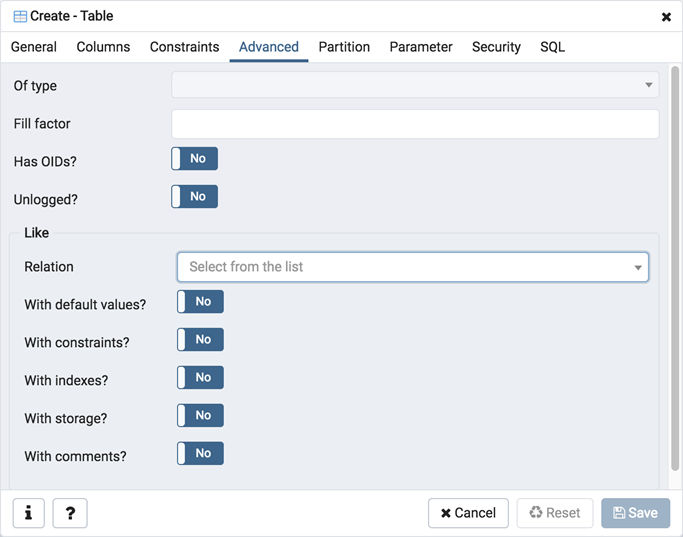
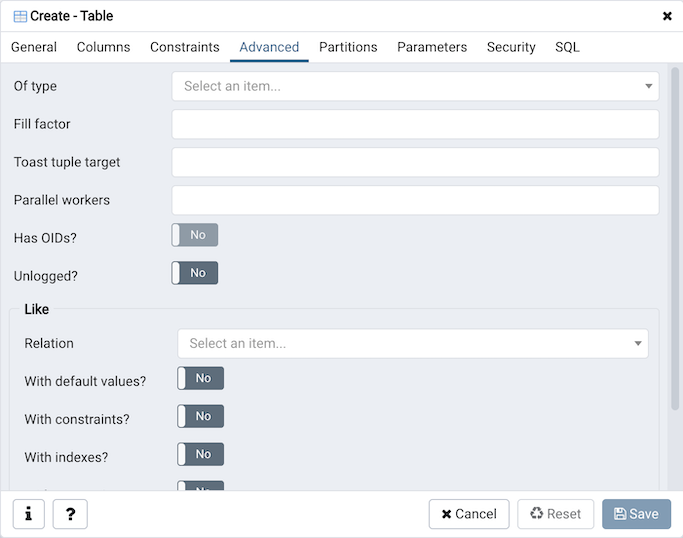
Added support for parameter toast_tuple_target and parallel_workers of the table. Fixes #5181
Fixed an issue where the autovacuum_enabled parameter is added automatically in the RE-SQL
when the table has been created using the WITH clause. Fixes #5180

diff --git a/web/pgadmin/browser/server_groups/servers/databases/schemas/tables/static/js/table.js b/web/pgadmin/browser/server_groups/servers/databases/schemas/tables/static/js/table.js
@@ -291,6 +291,8 @@ define('pgadmin.node.table', [
           triggercount: undefined,
           relpersistence: undefined,
           fillfactor: undefined,
+          toast_tuple_target: undefined,
+          parallel_workers: undefined,
           reloftype: undefined,
           typname: undefined,
           labels: undefined,
@@ -779,6 +781,26 @@ define('pgadmin.node.table', [
             return m.inSchema();
           },
         },{
+          id: 'toast_tuple_target', label: gettext('Toast tuple target'), type: 'int',
+          mode: ['create', 'edit'], min: 128, min_version: 110000,
+          group: gettext('advanced'),
+          disabled: function(m) {
+            if(m.get('is_partitioned')) {
+              return true;
+            }
+            return m.inSchema();
+          },
+        },{
+          id: 'parallel_workers', label: gettext('Parallel workers'), type: 'int',
+          mode: ['create', 'edit'], group: gettext('advanced'), min_version: 90600,
+          disabled: function(m) {
+            if(m.get('is_partitioned')) {
+              return true;
+            }
+            return m.inSchema();
+          },
+        },
+        {
           id: 'relhasoids', label: gettext('Has OIDs?'), cell: 'switch',
           type: 'switch', mode: ['properties', 'create', 'edit'],
           group: gettext('advanced'),

diff --git a/docs/en_US/table_dialog.rst b/docs/en_US/table_dialog.rst
@@ -395,6 +395,14 @@ Use the fields in the *Advanced* tab to define advanced features for the table:
 * Use the *Fill Factor* field to specify a fill factor for the table. The fill
   factor for a table is a percentage between 10 and 100. 100 (complete packing)
   is the default.
+* Use the *Toast tuple target* field to set toast_tuple_target storage
+  parameter of the table. The toast_tuple_target value is in bytes and has
+  minimum value of 128. This field will be enabled only for
+  PostgreSQL version >= 11
+* Use the *Parallel workers* field to set parallel_workers storage
+  parameter of the table. The parallel_workers sets the number of workers that
+  should be used to assist a parallel scan of the table. This field will be
+  enabled only for PostgreSQL version >= 9.6
 * Move the *Has OIDs?* switch to the *Yes* position to specify that each row
   within a table has a system-assigned object identifier. The default is *No*.
 * Move the *Unlogged?* switch to the *Yes* position to disable logging for the

diff --git a/docs/en_US/release_notes_4_21.rst b/docs/en_US/release_notes_4_21.rst
@@ -9,6 +9,7 @@ This release contains a number of bug fixes and new features since the release o
 New features
 ************
 
+| `Issue #5184 <https://redmine.postgresql.org/issues/5184>`_ -  Added support for parameter toast_tuple_target and parallel_workers of the table.
 
 Housekeeping
 ************
@@ -18,4 +19,5 @@ Bug fixes
 *********
 
 | `Issue #3645 <https://redmine.postgresql.org/issues/3645>`_ -  Ensure that the start and end date should be deleted when clear the selection for pgAgent Job.
+| `Issue #5180 <https://redmine.postgresql.org/issues/5180>`_ -  Fixed an issue where the autovacuum_enabled parameter is added automatically in the RE-SQL when the table has been created using the WITH clause.
 | `Issue #5268 <https://redmine.postgresql.org/issues/5268>`_ -  Fixed generated SQL when any token in FTS Configuration or any option in FTS Dictionary is changed.
